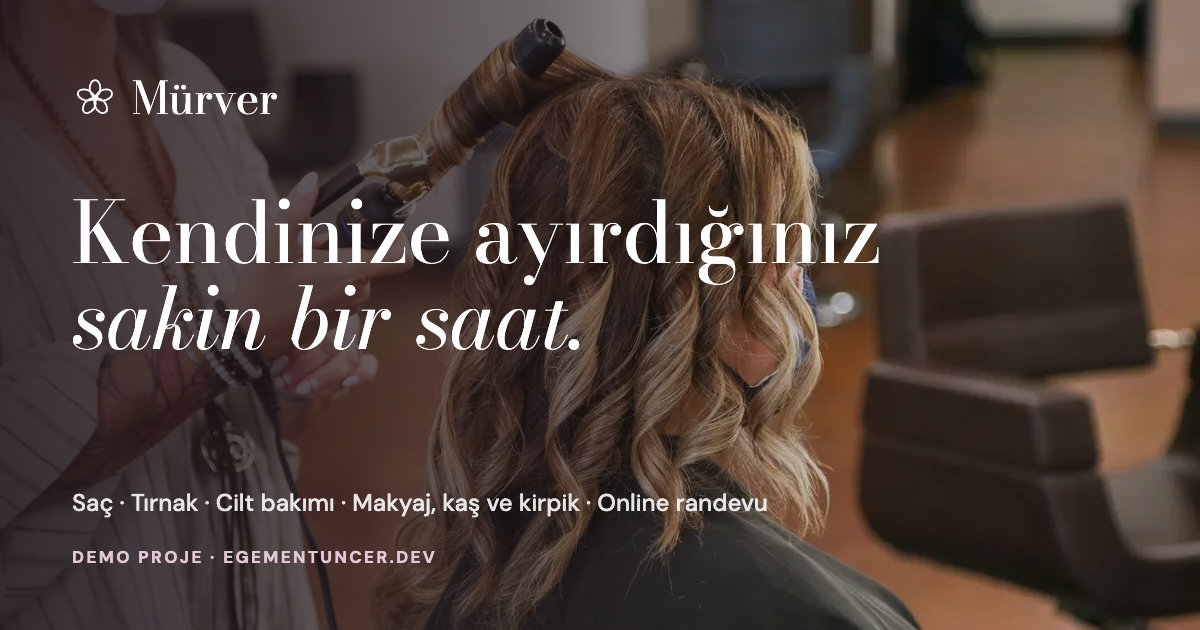
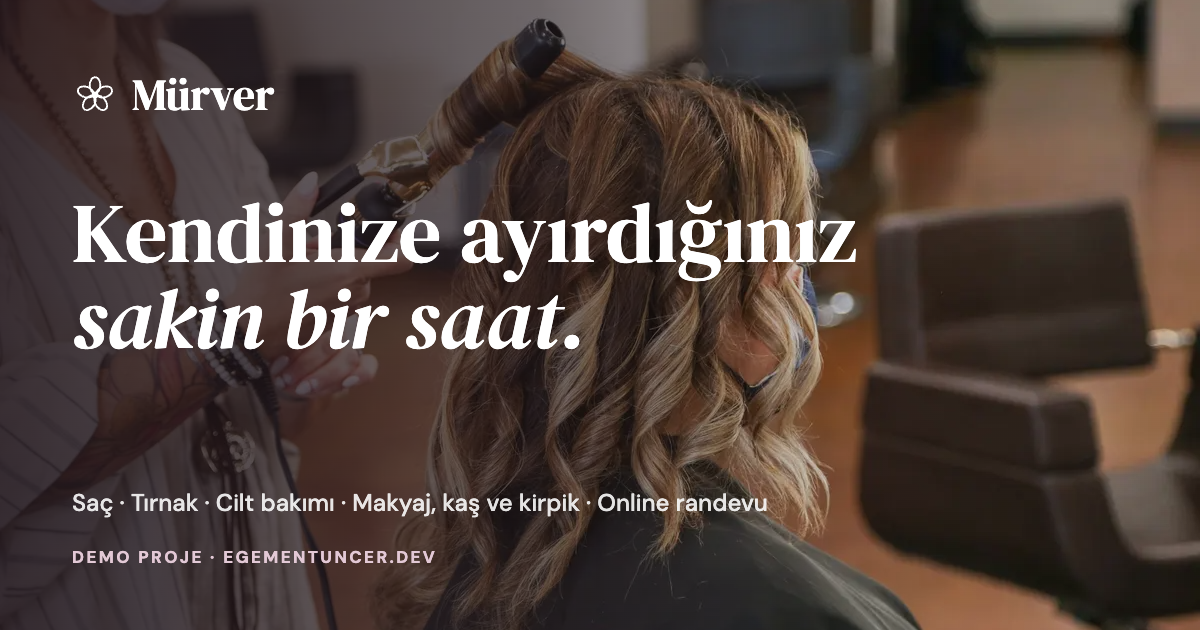
Başlık fontu: Bodoni Moda yerine daha okunaklı DM Serif Display; gri yazılar koyulaştı

Changed region(s): [[0.0617, 0.3016, 0.74, 0.4524], [0.0617, 0.4524, 0.4933, 0.573], [0.0617, 0.1206, 0.2467, 0.181]]

diff --git a/src/style.css b/src/style.css
@@ -1,6 +1,6 @@
 /* ==========================================================================
    Mürver Güzellik Atölyesi — stiller
-   Keten zemin, espresso yazı, mürver (koyu erik) vurgu; Bodoni Moda başlıklar.
+   Keten zemin, espresso yazı, mürver (koyu erik) vurgu; DM Serif Display başlıklar.
    ========================================================================== */
 
 :root {
@@ -8,8 +8,8 @@
   --surface: #fffaf5;
   --tint: #ece3da;
   --ink: #2a2320;
-  --ink-2: #4a3f3a;
-  --muted: #6c5f58;          /* zemin üstünde 5,2:1 */
+  --ink-2: #3d3330;
+  --muted: #5e524c;          /* zemin üstünde 6,6:1 */
   --line: #e0d4c8;
   --plum: #4a2639;           /* beyaz yazıyla 11:1 */
   --plum-2: #6b3a54;
@@ -17,7 +17,7 @@
   --gold: #a8834f;
   --danger: #a3271d;
 
-  --f-display: 'Bodoni Moda', 'Didot', 'Times New Roman', serif;
+  --f-display: 'DM Serif Display', Georgia, 'Times New Roman', serif;
   --f-body: 'DM Sans', system-ui, -apple-system, 'Segoe UI', sans-serif;
 
   --wrap: 1240px;
@@ -48,7 +48,7 @@ main:focus { outline: none; }
 .icon { width: 22px; height: 22px; flex: none; fill: none; stroke: currentColor; stroke-width: 1.5; stroke-linecap: round; stroke-linejoin: round; }
 
 /* ---------- Tipografi ---------- */
-.display, .display-2, .page-title { font-family: var(--f-display); font-weight: 400; letter-spacing: -0.015em; line-height: 1.02; }
+.display, .display-2, .page-title { font-family: var(--f-display); font-weight: 400; letter-spacing: -0.02em; line-height: 1.04; }
 .display { font-size: clamp(2.8rem, 6.4vw, 5.6rem); }
 .display span { display: block; }
 .display__em { font-style: italic; }
@@ -154,7 +154,7 @@ main:focus { outline: none; }
 .pick h3 { margin: 4px 0 6px; font-family: var(--f-display); font-weight: 400; font-size: clamp(1.7rem, 2.4vw, 2.3rem); line-height: 1.1; }
 .pick p { color: var(--muted); font-size: .95rem; }
 .pick__foot { display: flex; align-items: center; justify-content: space-between; gap: 12px; margin-top: auto; padding-top: 18px; border-top: 1px solid var(--line); margin-block-start: 18px; }
-.pick__foot strong { font-family: var(--f-display); font-weight: 500; font-size: 1.4rem; }
+.pick__foot strong { font-family: var(--f-display); font-weight: 400; font-size: 1.4rem; }
 
 /* ---------- Bölümler ---------- */
 .section { padding: clamp(72px, 10vw, 136px) 0; }
@@ -273,7 +273,7 @@ main:focus { outline: none; }
 .price-row__meta { display: grid; justify-items: end; gap: 2px; text-align: right; }
 .price-row__time { display: inline-flex; align-items: center; gap: 6px; font-size: .84rem; color: var(--muted); }
 .price-row__time .icon { width: 15px; height: 15px; }
-.price-row__price { font-family: var(--f-display); font-weight: 500; font-size: 1.3rem; white-space: nowrap; }
+.price-row__price { font-family: var(--f-display); font-weight: 400; font-size: 1.3rem; white-space: nowrap; }
 .price-row__book { display: inline-flex; align-items: center; gap: 6px; min-height: 40px; padding: 6px 14px; border-radius: 999px; border: 1.5px solid var(--line); text-decoration: none; font-size: .88rem; font-weight: 600; transition: border-color .2s, background-color .2s, color .2s; }
 .price-row__book .icon { width: 16px; height: 16px; }
 .price-row__book:hover { background: var(--plum); border-color: var(--plum); color: #fff; }
@@ -433,7 +433,7 @@ main:focus { outline: none; }
 .day-picker { display: flex; gap: 8px; overflow-x: auto; padding-bottom: 6px; scroll-snap-type: x proximity; }
 .day { flex: none; display: grid; justify-items: center; gap: 2px; width: 74px; padding: 12px 6px; border-radius: 14px; border: 1.5px solid var(--line); background: #fff; cursor: pointer; scroll-snap-align: start; transition: border-color .2s, background-color .2s; }
 .day small { font-size: .72rem; font-weight: 600; color: var(--muted); text-transform: uppercase; letter-spacing: .04em; }
-.day strong { font-size: 1.35rem; line-height: 1.1; font-family: var(--f-display); font-weight: 500; }
+.day strong { font-size: 1.35rem; line-height: 1.1; font-family: var(--f-display); font-weight: 400; }
 .day:hover { border-color: rgba(74, 38, 57, .45); }
 .day[aria-checked="true"] { border-color: var(--plum); background: var(--plum); color: #fff; }
 .day[aria-checked="true"] small { color: rgba(255, 255, 255, .85); }

diff --git a/README.md b/README.md
@@ -43,7 +43,7 @@ Kurgusal bir güzellik salonu için **çok sayfalı, iki dilli (TR/EN)** web sit
 
 - **Bağımlılıksız build:** `build.mjs` (Node 18+), `src/` içeriğinden statik HTML üretir. CSS ve JS'e içerik özeti (hash) eklenir.
 - Bütün metinler ve fiyatlar tek dosyada: `src/content.mjs`.
-- Fontlar: Bodoni Moda + DM Sans (Google Fonts).
+- Fontlar: DM Serif Display + DM Sans (Google Fonts).
 - **Fotoğraflar:** [Unsplash](https://unsplash.com) (Unsplash License).
   - Fotoğrafçılar sitenin alt bilgisinde listelenir.
   - Fotoğraflardaki kişiler ekibin portresi olarak kullanılmaz; uzman kartları baş harflidir.
